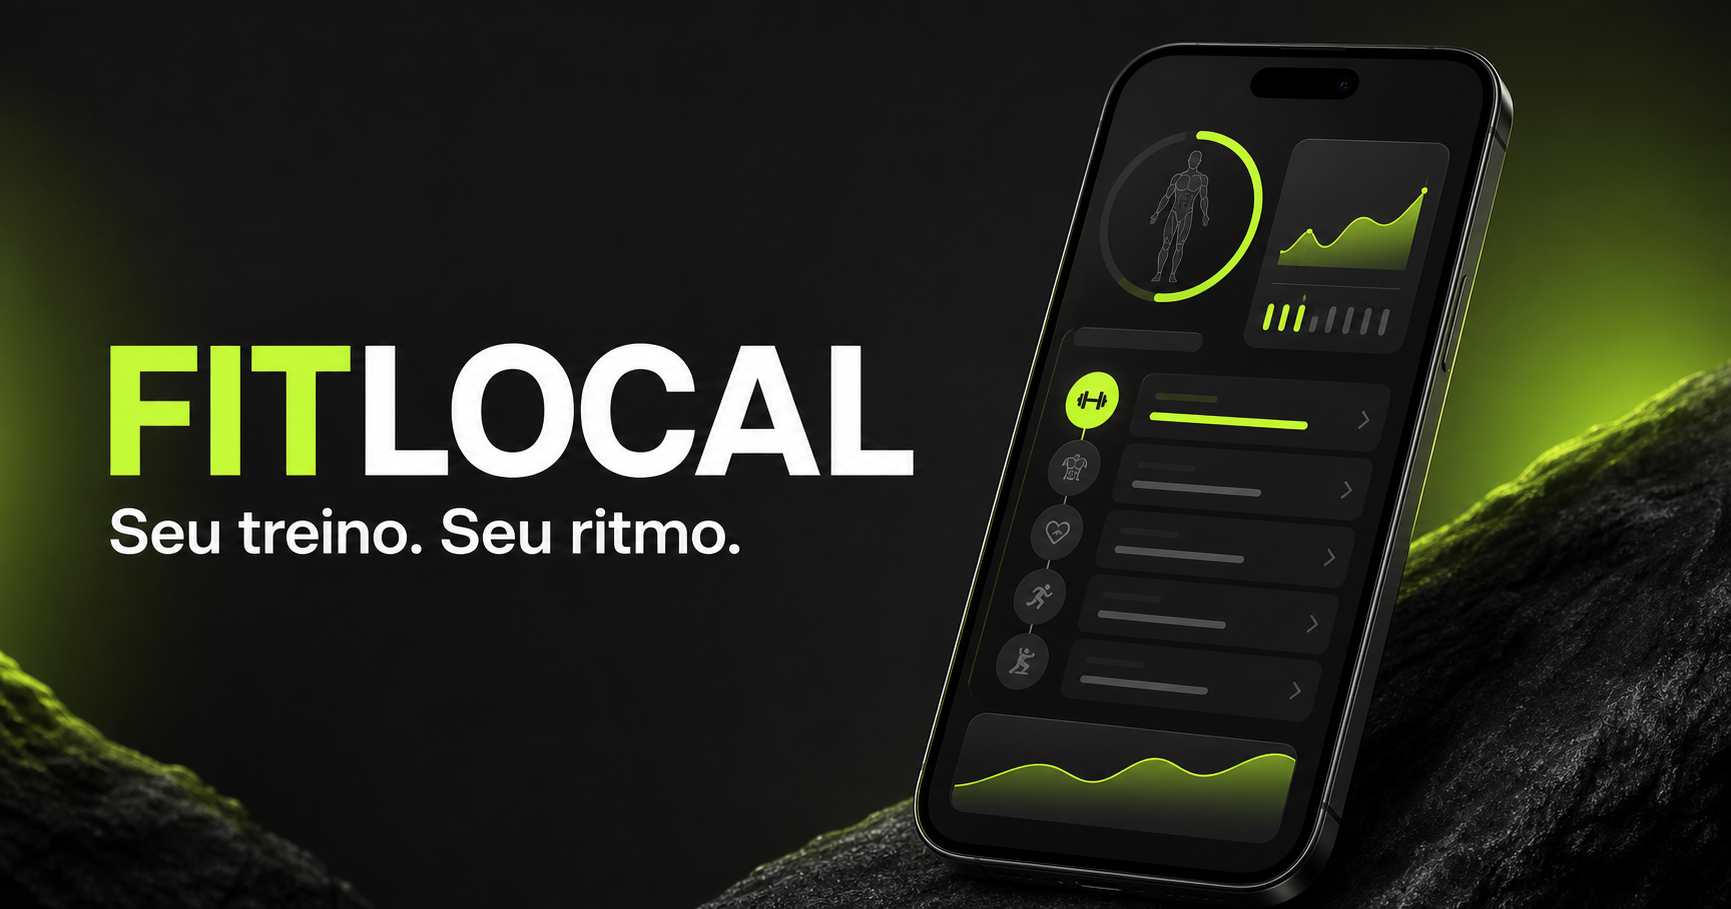
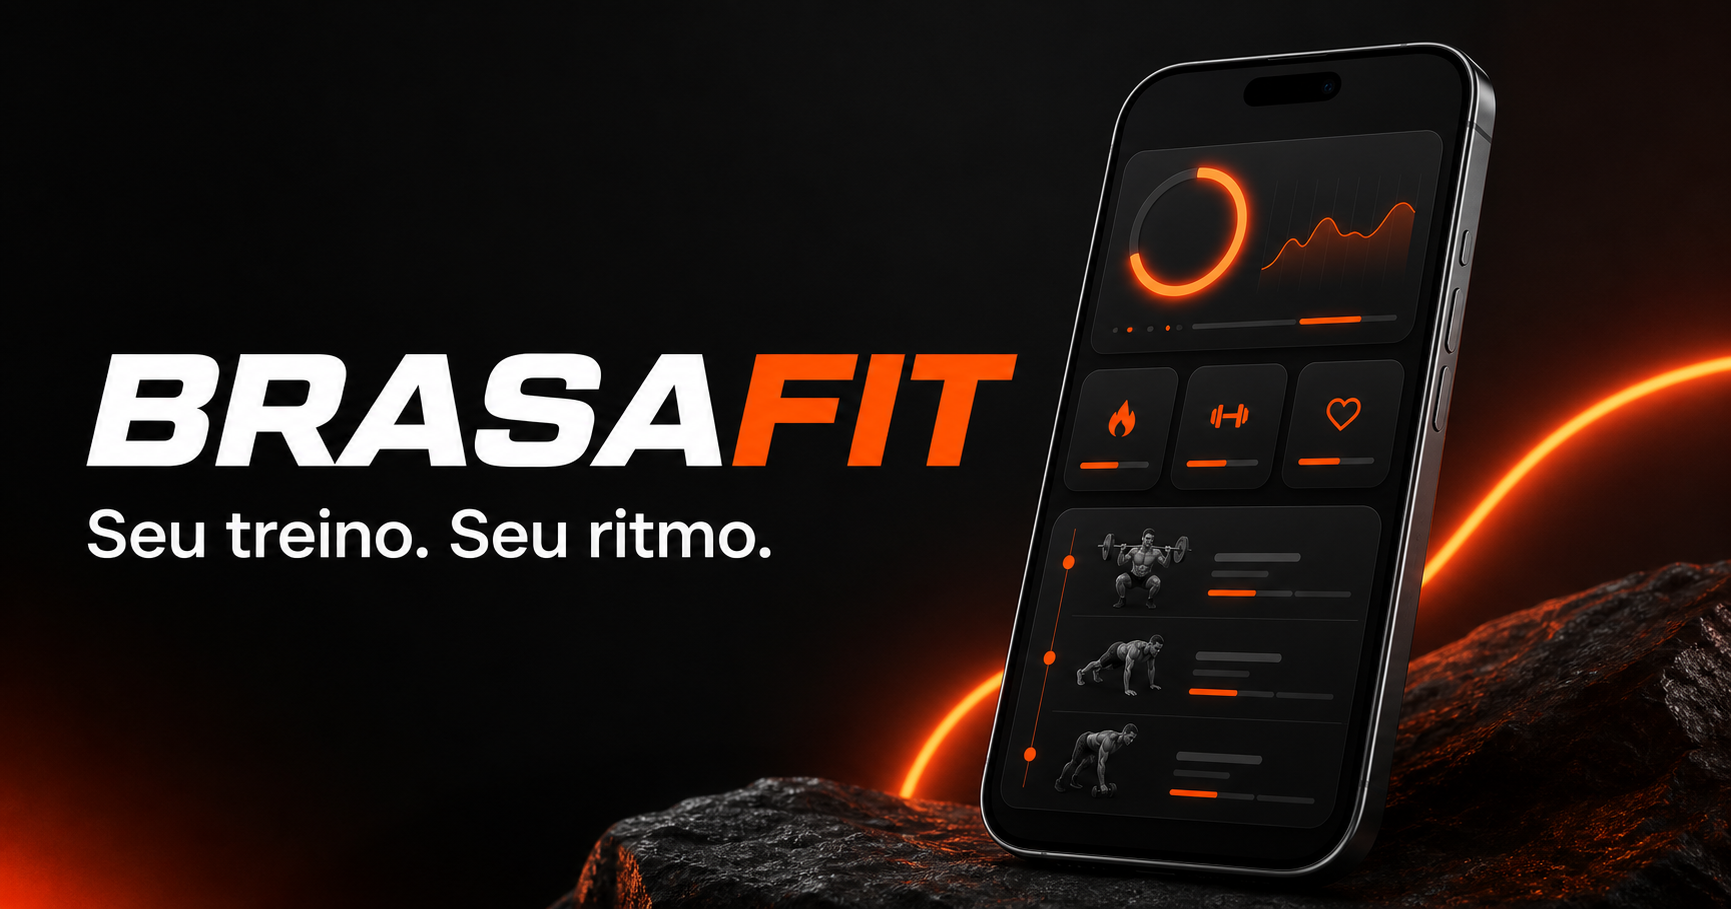
Rebrand app as BrasaFit

diff --git a/app/globals.css b/app/globals.css
@@ -6,9 +6,9 @@
   --text: #f5f5f2;
   --muted: #929296;
   --line: rgba(255, 255, 255, 0.09);
-  --accent: #a3ff3f;
-  --accent-deep: #72ca16;
-  --accent-soft: rgba(163, 255, 63, 0.13);
+  --accent: #ff6a00;
+  --accent-deep: #d84c00;
+  --accent-soft: rgba(255, 106, 0, 0.14);
   --danger-soft: rgba(255, 190, 92, 0.12);
   --shadow: 0 24px 80px rgba(0, 0, 0, 0.32);
 }
@@ -21,9 +21,9 @@
   --text: #11130f;
   --muted: #6f736a;
   --line: rgba(17, 19, 15, 0.1);
-  --accent: #7ee000;
-  --accent-deep: #58a500;
-  --accent-soft: rgba(126, 224, 0, 0.15);
+  --accent: #ff5a00;
+  --accent-deep: #c84400;
+  --accent-soft: rgba(255, 90, 0, 0.15);
   --shadow: 0 24px 60px rgba(51, 58, 42, 0.12);
 }
 
@@ -55,10 +55,10 @@ button:focus-visible, input:focus-visible, textarea:focus-visible { outline: 2px
 .welcome-panel, .form-panel { animation: enter .35s ease both; }
 @keyframes enter { from { opacity: 0; transform: translateY(10px); } }
 .welcome-visual { height: 34vh; max-height: 310px; min-height: 250px; position: relative; display: grid; place-content: center; margin-bottom: 16px; }
-.welcome-visual::before { content: ""; position: absolute; width: 280px; height: 280px; border-radius: 50%; background: radial-gradient(circle, rgba(163,255,63,.18), transparent 66%); filter: blur(4px); }
+.welcome-visual::before { content: ""; position: absolute; width: 280px; height: 280px; border-radius: 50%; background: radial-gradient(circle, rgba(255,106,0,.18), transparent 66%); filter: blur(4px); }
 .pulse-ring { width: 196px; height: 196px; border-radius: 50%; display: grid; place-items: center; border: 26px solid var(--surface-2); position: relative; box-shadow: inset 0 0 0 1px var(--line), var(--shadow); }
 .pulse-ring::before { content: ""; position: absolute; inset: -26px; border: 26px solid transparent; border-top-color: var(--accent); border-right-color: var(--accent); border-radius: 50%; transform: rotate(15deg); }
-.pulse-ring::after { content: ""; width: 44px; height: 7px; border-radius: 5px; background: var(--accent); box-shadow: 0 16px 0 rgba(163,255,63,.45); }
+.pulse-ring::after { content: ""; width: 44px; height: 7px; border-radius: 5px; background: var(--accent); box-shadow: 0 16px 0 rgba(255,106,0,.45); }
 .pulse-ring span { position: absolute; bottom: 23px; font-size: 12px; color: var(--muted); font-weight: 800; letter-spacing: .15em; }
 .metric-float { position: absolute; padding: 11px 14px; border: 1px solid var(--line); border-radius: 16px; background: color-mix(in srgb, var(--surface) 86%, transparent); backdrop-filter: blur(16px); box-shadow: var(--shadow); display: flex; flex-direction: column; }
 .metric-float strong { font-size: 18px; color: var(--accent); }.metric-float small { color: var(--muted); font-size: 10px; }
@@ -67,7 +67,7 @@ button:focus-visible, input:focus-visible, textarea:focus-visible { outline: 2px
 .welcome-panel h1, .form-panel h1 { margin: 0; font-size: clamp(42px, 12vw, 60px); line-height: .98; letter-spacing: -.055em; }
 .welcome-panel h1 em { color: var(--accent); font-style: normal; }
 .lead { color: var(--muted); font-size: 16px; line-height: 1.55; margin: 18px 0 24px; max-width: 380px; }.lead.compact { margin-top: 12px; }
-.primary-button { width: 100%; min-height: 58px; border: 0; border-radius: 18px; background: var(--accent); color: #0b0d09; padding: 0 18px; display: flex; align-items: center; justify-content: space-between; font-weight: 850; cursor: pointer; box-shadow: 0 14px 34px rgba(140, 235, 43, .18); }
+.primary-button { width: 100%; min-height: 58px; border: 0; border-radius: 18px; background: var(--accent); color: #0b0d09; padding: 0 18px; display: flex; align-items: center; justify-content: space-between; font-weight: 850; cursor: pointer; box-shadow: 0 14px 34px rgba(255, 106, 0, .22); }
 .primary-button span { width: 34px; height: 34px; display: grid; place-items: center; border-radius: 50%; background: rgba(0,0,0,.12); font-size: 20px; }
 .primary-button:disabled { opacity: .35; cursor: not-allowed; }
 .privacy-note { text-align: center; font-size: 11px; color: var(--muted); margin: 13px 0 0; }
@@ -75,7 +75,7 @@ button:focus-visible, input:focus-visible, textarea:focus-visible { outline: 2px
 .form-panel { padding-bottom: 20px; }
 .form-panel h1 { font-size: 38px; line-height: 1.05; margin-bottom: 10px; }
 .photo-picker { display: flex; flex-direction: column; align-items: center; gap: 9px; margin: 22px auto; color: var(--accent); font-weight: 750; font-size: 13px; cursor: pointer; }.photo-picker input { display: none; }
-.avatar { display: grid; place-items: center; border-radius: 50%; overflow: hidden; flex: 0 0 auto; color: #11140d; background: linear-gradient(145deg, var(--accent), #d7ff9f); font-weight: 900; border: 2px solid var(--surface-3); }.avatar img { width: 100%; height: 100%; object-fit: cover; }.avatar-small { width: 44px; height: 44px; font-size: 14px; }.avatar-medium { width: 58px; height: 58px; font-size: 18px; }.avatar-large { width: 88px; height: 88px; font-size: 25px; box-shadow: 0 0 0 7px var(--accent-soft); }
+.avatar { display: grid; place-items: center; border-radius: 50%; overflow: hidden; flex: 0 0 auto; color: #11140d; background: linear-gradient(145deg, var(--accent), #ffb067); font-weight: 900; border: 2px solid var(--surface-3); }.avatar img { width: 100%; height: 100%; object-fit: cover; }.avatar-small { width: 44px; height: 44px; font-size: 14px; }.avatar-medium { width: 58px; height: 58px; font-size: 18px; }.avatar-large { width: 88px; height: 88px; font-size: 25px; box-shadow: 0 0 0 7px var(--accent-soft); }
 .field-label { display: grid; gap: 9px; font-size: 13px; color: var(--muted); font-weight: 650; margin: 18px 0; }
 .field-label input, .field-label textarea, .search-field { width: 100%; border: 1px solid var(--line); border-radius: 16px; background: var(--surface); color: var(--text); padding: 16px; resize: vertical; }.field-label input { min-height: 54px; }.field-label textarea { line-height: 1.45; }
 .field-label input::placeholder, .field-label textarea::placeholder, .search-field input::placeholder { color: color-mix(in srgb, var(--muted) 70%, transparent); }
@@ -92,12 +92,12 @@ button:focus-visible, input:focus-visible, textarea:focus-visible { outline: 2px
 .app-shell { min-height: 100dvh; background: var(--bg); }.mobile-app { position: relative; min-height: 100dvh; box-shadow: var(--shadow); }.app-content { padding-bottom: calc(92px + env(safe-area-inset-bottom)); }.screen { min-height: 100dvh; padding: calc(20px + env(safe-area-inset-top)) 18px 28px; animation: enter .25s ease both; }
 .screen-header { display: flex; align-items: center; justify-content: space-between; margin-bottom: 12px; }.screen-header p, .simple-header p { color: var(--muted); font-size: 11px; font-weight: 750; text-transform: capitalize; letter-spacing: .04em; margin: 0 0 4px; }.screen-header h1, .simple-header h1 { font-size: 27px; margin: 0; letter-spacing: -.04em; }.simple-header { margin: 8px 0 22px; }.simple-header p { color: var(--accent); text-transform: uppercase; letter-spacing: .14em; font-weight: 850; }
 .connection-pill { display: inline-flex; align-items: center; gap: 7px; color: var(--muted); font-size: 10px; margin-bottom: 18px; }.connection-pill span { width: 7px; height: 7px; border-radius: 50%; background: var(--accent); box-shadow: 0 0 0 4px var(--accent-soft); }.connection-pill.offline span { background: #ffbe5c; box-shadow: 0 0 0 4px var(--danger-soft); }
-.hero-card { min-height: 245px; position: relative; overflow: hidden; border-radius: 28px; padding: 24px; background: radial-gradient(circle at 93% 14%, rgba(163,255,63,.28), transparent 33%), linear-gradient(145deg, #24252a, #111216); border: 1px solid rgba(255,255,255,.09); color: #f7f8f3; }.hero-card > p { color: var(--accent); font-size: 10px; letter-spacing: .14em; font-weight: 850; margin: 0 0 50px; }.hero-card h2 { max-width: 270px; font-size: 28px; line-height: 1.03; letter-spacing: -.045em; margin: 0 0 10px; }.hero-card > span { display: block; max-width: 270px; color: #aaaeb0; font-size: 12px; line-height: 1.45; }.hero-card button { margin-top: 18px; border: 0; background: var(--accent); color: #10130d; padding: 11px 14px; border-radius: 13px; font-size: 12px; font-weight: 850; }.hero-card button b { margin-left: 10px; }.hero-orbit { position: absolute; right: -38px; top: -35px; width: 175px; height: 175px; border-radius: 50%; border: 28px solid rgba(255,255,255,.07); }.hero-orbit::before { content: ""; position: absolute; inset: -28px; border-radius: 50%; border: 28px solid transparent; border-top-color: var(--accent); border-right-color: var(--accent); transform: rotate(30deg); }.hero-orbit span { position: absolute; inset: 0; display: grid; place-items: center; color: var(--accent); font-weight: 900; font-size: 24px; }
+.hero-card { min-height: 245px; position: relative; overflow: hidden; border-radius: 28px; padding: 24px; background: radial-gradient(circle at 93% 14%, rgba(255,106,0,.28), transparent 33%), linear-gradient(145deg, #24252a, #111216); border: 1px solid rgba(255,255,255,.09); color: #f7f8f3; }.hero-card > p { color: var(--accent); font-size: 10px; letter-spacing: .14em; font-weight: 850; margin: 0 0 50px; }.hero-card h2 { max-width: 270px; font-size: 28px; line-height: 1.03; letter-spacing: -.045em; margin: 0 0 10px; }.hero-card > span { display: block; max-width: 270px; color: #aaaeb0; font-size: 12px; line-height: 1.45; }.hero-card button { margin-top: 18px; border: 0; background: var(--accent); color: #10130d; padding: 11px 14px; border-radius: 13px; font-size: 12px; font-weight: 850; }.hero-card button b { margin-left: 10px; }.hero-orbit { position: absolute; right: -38px; top: -35px; width: 175px; height: 175px; border-radius: 50%; border: 28px solid rgba(255,255,255,.07); }.hero-orbit::before { content: ""; position: absolute; inset: -28px; border-radius: 50%; border: 28px solid transparent; border-top-color: var(--accent); border-right-color: var(--accent); transform: rotate(30deg); }.hero-orbit span { position: absolute; inset: 0; display: grid; place-items: center; color: var(--accent); font-weight: 900; font-size: 24px; }
 .week-strip { display: flex; justify-content: space-between; margin: 18px 0 26px; }.week-strip div { width: 40px; height: 58px; display: grid; place-items: center; align-content: center; gap: 5px; border: 1px solid var(--line); border-radius: 22px; }.week-strip small { font-size: 9px; color: var(--muted); }.week-strip span { font-size: 12px; font-weight: 800; }.week-strip .today { background: var(--accent); color: #10130d; border-color: var(--accent); }.week-strip .today small { color: #334a19; }
 .section-heading { display: flex; align-items: flex-end; justify-content: space-between; margin: 22px 0 12px; }.section-heading p { margin-bottom: 3px; }.section-heading h2 { font-size: 21px; margin: 0; letter-spacing: -.035em; }.version-badge { font-size: 9px; border: 1px solid var(--line); border-radius: 20px; padding: 6px 9px; color: var(--muted); }
 .empty-workout-card { display: flex; gap: 14px; align-items: center; padding: 17px; border-radius: 20px; background: var(--surface); border: 1px solid var(--line); }.empty-icon { width: 48px; height: 48px; display: grid; place-items: center; flex: 0 0 auto; border-radius: 15px; background: var(--accent-soft); color: var(--accent); font-size: 25px; }.empty-workout-card h3 { margin: 0 0 5px; font-size: 15px; }.empty-workout-card p { margin: 0; font-size: 11px; color: var(--muted); line-height: 1.4; }
 .metrics-grid { display: grid; grid-template-columns: 1.35fr .75fr .75fr; gap: 8px; margin-top: 10px; }.metrics-grid article { min-width: 0; padding: 14px 12px; background: var(--surface); border: 1px solid var(--line); border-radius: 17px; display: flex; flex-direction: column; }.metrics-grid p { margin: 0 0 12px; font-size: 9px; color: var(--muted); }.metrics-grid strong { font-size: 15px; white-space: nowrap; overflow: hidden; text-overflow: ellipsis; }.metrics-grid span { color: var(--muted); font-size: 8px; margin-top: 3px; }
-.install-card, .upgrade-card { display: flex; gap: 14px; align-items: flex-start; margin-top: 18px; padding: 16px; border-radius: 20px; background: var(--accent-soft); border: 1px solid rgba(163,255,63,.2); }.install-card > span, .upgrade-card > span { width: 38px; height: 38px; display: grid; place-items: center; flex: 0 0 auto; border-radius: 50%; background: var(--accent); color: #11140d; font-size: 19px; font-weight: 900; }.install-card strong, .upgrade-card strong { font-size: 13px; }.install-card p, .upgrade-card p { color: var(--muted); font-size: 10px; line-height: 1.45; margin: 4px 0 0; }
+.install-card, .upgrade-card { display: flex; gap: 14px; align-items: flex-start; margin-top: 18px; padding: 16px; border-radius: 20px; background: var(--accent-soft); border: 1px solid rgba(255,106,0,.2); }.install-card > span, .upgrade-card > span { width: 38px; height: 38px; display: grid; place-items: center; flex: 0 0 auto; border-radius: 50%; background: var(--accent); color: #11140d; font-size: 19px; font-weight: 900; }.install-card strong, .upgrade-card strong { font-size: 13px; }.install-card p, .upgrade-card p { color: var(--muted); font-size: 10px; line-height: 1.45; margin: 4px 0 0; }
 .quick-actions { display: grid; gap: 8px; margin-top: 16px; }.quick-actions button { width: 100%; display: flex; gap: 12px; align-items: center; text-align: left; padding: 13px; border-radius: 17px; background: var(--surface); border: 1px solid var(--line); }.quick-actions button > span { width: 36px; height: 36px; display: grid; place-items: center; border-radius: 12px; background: var(--surface-2); color: var(--accent); }.quick-actions button div { display: grid; gap: 2px; }.quick-actions strong { font-size: 12px; }.quick-actions small { color: var(--muted); font-size: 9px; }
 .bottom-nav { position: fixed; z-index: 30; bottom: 0; left: 50%; transform: translateX(-50%); width: min(100%, 520px); padding: 10px 10px calc(10px + env(safe-area-inset-bottom)); display: grid; grid-template-columns: repeat(5, 1fr); gap: 2px; background: color-mix(in srgb, var(--bg) 88%, transparent); backdrop-filter: blur(24px); border-top: 1px solid var(--line); }.bottom-nav button { min-width: 0; border: 0; background: transparent; color: var(--muted); display: grid; justify-items: center; gap: 3px; padding: 6px 2px; border-radius: 14px; }.bottom-nav button > span { width: 34px; height: 28px; display: grid; place-items: center; font-size: 20px; border-radius: 12px; }.bottom-nav button small { font-size: 8px; }.bottom-nav button.active { color: var(--accent); }.bottom-nav button.active > span { background: var(--accent); color: #11140d; }.toast { position: fixed; z-index: 50; top: calc(14px + env(safe-area-inset-top)); left: 50%; transform: translateX(-50%); background: var(--accent); color: #11140d; padding: 10px 15px; border-radius: 20px; font-size: 11px; font-weight: 850; box-shadow: var(--shadow); white-space: nowrap; }
 

diff --git a/app/FitLocalApp.tsx b/app/FitLocalApp.tsx
@@ -156,25 +156,25 @@ export default function FitLocalApp() {
 
   function exportBackup() {
     if (!profile) return;
-    const backup = { app: "FitLocal", version: 1, exportedAt: new Date().toISOString(), profile, workouts: [], history: [] };
+    const backup = { app: "BrasaFit", version: 1, exportedAt: new Date().toISOString(), profile, workouts: [], history: [] };
     const blob = new Blob([JSON.stringify(backup, null, 2)], { type: "application/json" });
     const url = URL.createObjectURL(blob);
     const link = document.createElement("a");
     link.href = url;
-    link.download = `fitlocal-backup-${new Date().toISOString().slice(0, 10)}.json`;
+    link.download = `brasafit-backup-${new Date().toISOString().slice(0, 10)}.json`;
     link.click();
     URL.revokeObjectURL(url);
   }
 
   if (!hydrated) {
-    return <main className="loading-screen"><div className="brand-mark" aria-hidden="true"><span /></div><p>FITLOCAL</p></main>;
+    return <main className="loading-screen"><div className="brand-mark" aria-hidden="true"><span /></div><p>BRASAFIT</p></main>;
   }
 
   if (!profile) {
     return (
       <main className="onboarding-shell">
         <div className="onboarding-top">
-          <div className="wordmark"><div className="brand-mark" aria-hidden="true"><span /></div>FITLOCAL</div>
+          <div className="wordmark"><div className="brand-mark" aria-hidden="true"><span /></div>BRASAFIT</div>
           {step > 0 && <button className="text-button" onClick={() => setStep((current) => Math.max(0, current - 1))}>Voltar</button>}
         </div>
         <div className="step-dots" aria-label={`Etapa ${step + 1} de 4`}>
@@ -302,5 +302,5 @@ function History() {
 function ProfileView({ profile, draft, setDraft, editing, setEditing, saveProfile, handlePhoto, toggleDay, theme, changeTheme, exportBackup }: { profile: Profile; draft: Profile; setDraft: (profile: Profile) => void; editing: boolean; setEditing: (value: boolean) => void; saveProfile: (event?: FormEvent) => void; handlePhoto: (event: ChangeEvent<HTMLInputElement>) => void; toggleDay: (day: string) => void; theme: "dark" | "light"; changeTheme: () => void; exportBackup: () => void }) {
   if (editing) return <section className="screen profile-edit-screen"><div className="edit-header"><button onClick={() => { setDraft(profile); setEditing(false); }}>Cancelar</button><h1>Editar perfil</h1><button className="save-link" onClick={() => saveProfile()}>Salvar</button></div><label className="photo-picker compact-photo"><input type="file" accept="image/*" onChange={handlePhoto} /><Avatar profile={draft} size="large" /><span>Alterar foto</span></label><label className="field-label">Nome<input value={draft.name} onChange={(event) => setDraft({ ...draft, name: event.target.value })} /></label><p className="field-title">Objetivo</p><div className="choice-grid">{goals.map((goal) => <button key={goal} className={draft.goal === goal ? "selected" : ""} onClick={() => setDraft({ ...draft, goal })}>{goal}</button>)}</div><p className="field-title">Dias disponíveis</p><div className="days-picker">{weekDays.map((day) => <button key={day} className={draft.days.includes(day) ? "selected" : ""} onClick={() => toggleDay(day)}>{day}</button>)}</div><label className="field-label">Limitações<textarea rows={4} value={draft.limitations} onChange={(event) => setDraft({ ...draft, limitations: event.target.value })} placeholder="Nenhuma informada" /></label></section>;
 
-  return <section className="screen"><div className="profile-hero"><Avatar profile={profile} size="large" /><h1>{profile.name}</h1><p>{profile.goal} · {profile.experience}</p><button onClick={() => setEditing(true)}>Editar perfil</button></div><div className="profile-facts"><div><small>Disponibilidade</small><strong>{profile.days.join(" · ")}</strong></div><div><small>Sessão ideal</small><strong>{profile.duration} · {profile.location}</strong></div><div><small>Observações</small><strong>{profile.limitations || "Nenhuma limitação informada"}</strong></div></div><div className="settings-list"><button onClick={changeTheme}><span>{theme === "dark" ? "☾" : "☀"}</span><div><strong>Aparência</strong><small>{theme === "dark" ? "Tema escuro" : "Tema claro"}</small></div><b>Alterar</b></button><button onClick={exportBackup}><span>↓</span><div><strong>Exportar backup</strong><small>Perfil e histórico em um arquivo</small></div><b>Exportar</b></button><div><span>●</span><div><strong>Armazenamento</strong><small>Dados salvos neste aparelho</small></div><b className="safe-status">Seguro</b></div></div><p className="app-version">FITLOCAL · versão 1.0</p></section>;
+  return <section className="screen"><div className="profile-hero"><Avatar profile={profile} size="large" /><h1>{profile.name}</h1><p>{profile.goal} · {profile.experience}</p><button onClick={() => setEditing(true)}>Editar perfil</button></div><div className="profile-facts"><div><small>Disponibilidade</small><strong>{profile.days.join(" · ")}</strong></div><div><small>Sessão ideal</small><strong>{profile.duration} · {profile.location}</strong></div><div><small>Observações</small><strong>{profile.limitations || "Nenhuma limitação informada"}</strong></div></div><div className="settings-list"><button onClick={changeTheme}><span>{theme === "dark" ? "☾" : "☀"}</span><div><strong>Aparência</strong><small>{theme === "dark" ? "Tema escuro" : "Tema claro"}</small></div><b>Alterar</b></button><button onClick={exportBackup}><span>↓</span><div><strong>Exportar backup</strong><small>Perfil e histórico em um arquivo</small></div><b>Exportar</b></button><div><span>●</span><div><strong>Armazenamento</strong><small>Dados salvos neste aparelho</small></div><b className="safe-status">Seguro</b></div></div><p className="app-version">BRASAFIT · versão 1.1</p></section>;
 }

diff --git a/app/layout.tsx b/app/layout.tsx
@@ -12,20 +12,20 @@ export async function generateMetadata(): Promise<Metadata> {
   const base = new URL(`${protocol}://${host}`);
   return {
     metadataBase: base,
-    title: "FitLocal — Seu treino, seu ritmo",
+    title: "BrasaFit — Seu treino, seu ritmo",
     description: "Treinos pessoais, progresso e histórico disponíveis mesmo offline.",
-    applicationName: "FitLocal",
+    applicationName: "BrasaFit",
     manifest: "/manifest.webmanifest",
-    appleWebApp: { capable: true, statusBarStyle: "black-translucent", title: "FitLocal" },
+    appleWebApp: { capable: true, statusBarStyle: "black-translucent", title: "BrasaFit" },
     formatDetection: { telephone: false },
     icons: { icon: "/icon.svg", shortcut: "/icon.svg", apple: "/icon.svg" },
     openGraph: {
-      title: "FitLocal — Seu treino, seu ritmo",
+      title: "BrasaFit — Seu treino, seu ritmo",
       description: "Seu aplicativo pessoal de treino, disponível mesmo offline.",
       type: "website",
-      images: [{ url: new URL("/og.png", base), width: 1200, height: 630, alt: "FitLocal — Seu treino. Seu ritmo." }],
+      images: [{ url: new URL("/og.png", base), width: 1200, height: 630, alt: "BrasaFit — Seu treino. Seu ritmo." }],
     },
-    twitter: { card: "summary_large_image", title: "FitLocal", description: "Seu treino. Seu ritmo.", images: [new URL("/og.png", base)] },
+    twitter: { card: "summary_large_image", title: "BrasaFit", description: "Seu treino. Seu ritmo.", images: [new URL("/og.png", base)] },
   };
 }
 

diff --git a/app/manifest.ts b/app/manifest.ts
@@ -2,13 +2,13 @@ import type { MetadataRoute } from "next";
 
 export default function manifest(): MetadataRoute.Manifest {
   return {
-    name: "FitLocal — Treino Pessoal",
-    short_name: "FitLocal",
+    name: "BrasaFit — Treino Pessoal",
+    short_name: "BrasaFit",
     description: "Treinos pessoais, progresso e histórico disponíveis offline.",
     start_url: "/",
     display: "standalone",
     background_color: "#09090b",
-    theme_color: "#a3ff3f",
+    theme_color: "#ff6a00",
     orientation: "portrait",
     categories: ["fitness", "health", "lifestyle"],
     icons: [{ src: "/icon.svg", sizes: "any", type: "image/svg+xml", purpose: "any" }],

diff --git a/public/sw.js b/public/sw.js
@@ -1,4 +1,4 @@
-const CACHE_NAME = "fitlocal-shell-v1";
+const CACHE_NAME = "brasafit-shell-v2";
 const APP_SHELL = ["/", "/manifest.webmanifest", "/icon.svg"];
 
 self.addEventListener("install", (event) => {
